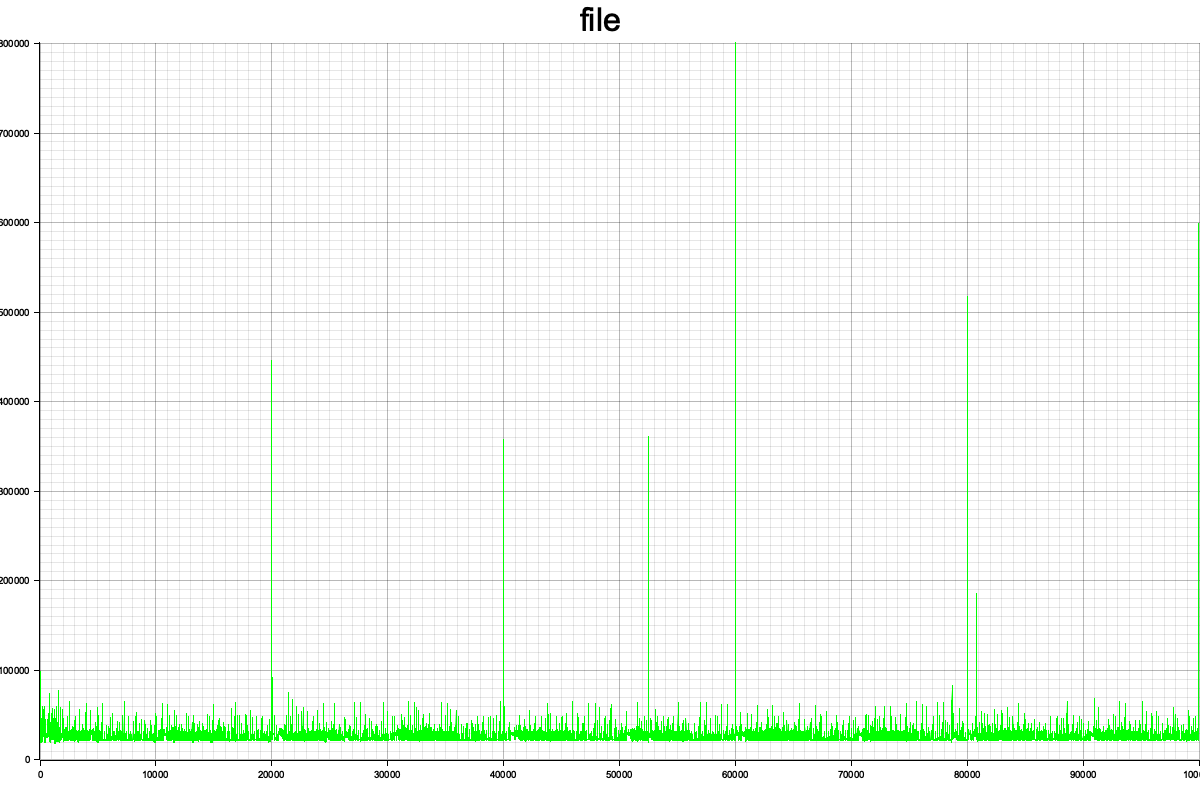
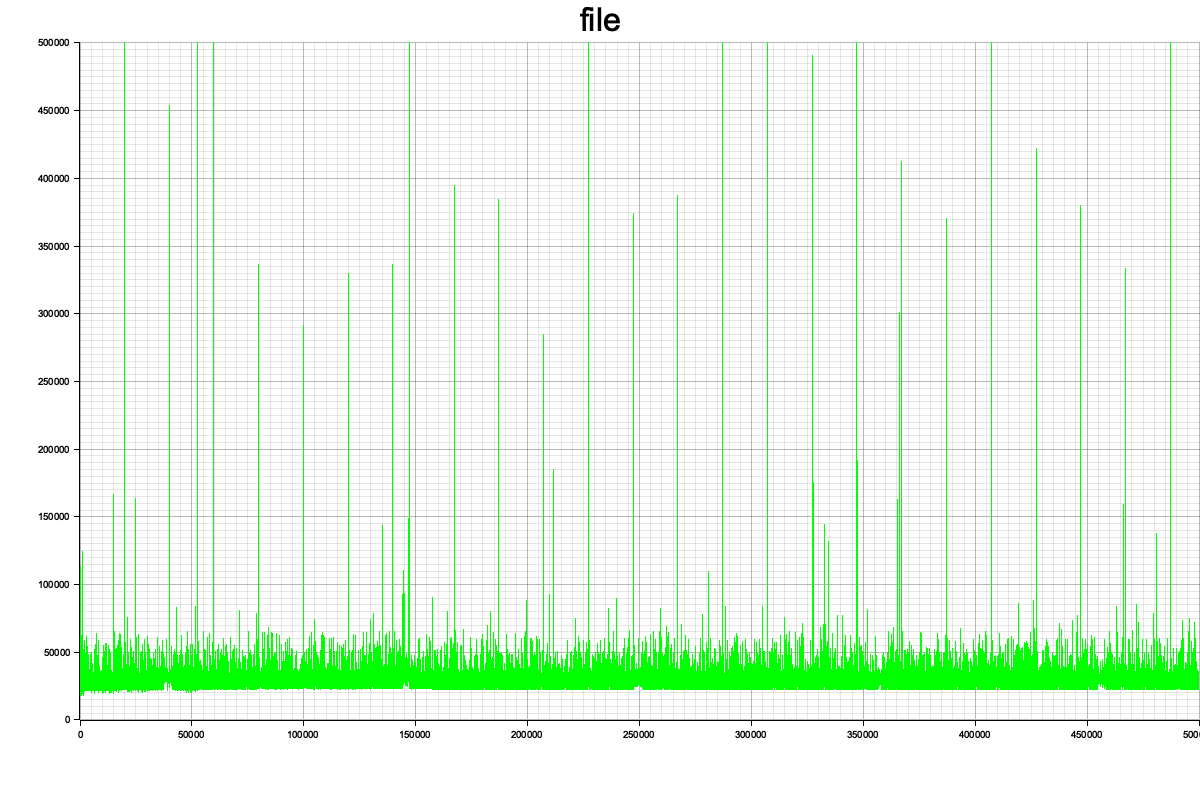
Add measurements for sqlite with sync_off

Changed region(s): [[0.0, 0.0312, 1.0, 0.9688]]

diff --git a/src/main.rs b/src/main.rs
@@ -91,6 +91,43 @@ fn measure_logs_rdbms(iterations: usize) -> PerfResults {
     return results;
 }
 
+fn measure_logs_sqlite_sync_off(iterations: usize) -> PerfResults {
+    let conn = sqlite::Connection::open("sync_off").unwrap();
+    conn.execute(
+        "
+                  CREATE TABLE IF NOT EXISTS log_table (
+                        text    TEXT NOT NULL,
+                        time    INTEGER
+                      );
+                  DELETE FROM log_table;
+                  PRAGMA synchronous=OFF;
+                  ",
+    )
+    .unwrap();
+
+    let mut results = vec![];
+    for i in 0..iterations {
+        let now = SystemTime::now()
+            .duration_since(SystemTime::UNIX_EPOCH)
+            .unwrap();
+        let before = Instant::now();
+
+        conn.execute(format!(
+            "INSERT INTO log_table (text, time)  VALUES ('user made a request', {});",
+            now.as_secs()
+        ))
+        .unwrap();
+
+        results.push(before.elapsed());
+
+        if i % 10000 == 0 {
+            println!("{i}");
+        }
+    }
+
+    results
+}
+
 fn measure_logs_rdbms_no_id(iterations: usize) -> PerfResults {
     let mut client = Client::connect("postgresql://ethancarlsson@localhost/log_db", NoTls).unwrap();
 
@@ -129,11 +166,13 @@ fn generate_plot(perf_results: &PerfResults, plot_name: &str) {
 
     root_area.fill(&WHITE).unwrap();
 
+    let max_height: u128 = 500000;
+
     let mut ctx = ChartBuilder::on(&root_area)
-        .set_label_area_size(LabelAreaPosition::Left, 40)
-        .set_label_area_size(LabelAreaPosition::Bottom, 40)
+        .set_label_area_size(LabelAreaPosition::Left, 80)
+        .set_label_area_size(LabelAreaPosition::Bottom, 80)
         .caption(format!("{plot_name}"), ("sans-serif", 40))
-        .build_cartesian_2d(0..nanos.len(), 0..nanos.clone().max().unwrap_or(0))
+        .build_cartesian_2d(0..nanos.len(), 0..max_height)
         .unwrap();
 
     ctx.configure_mesh().draw().unwrap();
@@ -149,17 +188,16 @@ fn generate_comparison_plot(
     other: &PerfResults,
     other_name: &str,
 ) {
-    let name = format!("images/comparison.png");
+    let name = format!("images/rdbms_file_{other_name}.png");
     let root_area = BitMapBackend::new(&name, (1200, 800)).into_drawing_area();
 
     root_area.fill(&WHITE).unwrap();
 
     let nanos_rdbms = results_rdbms.iter().map(|duration| duration.as_nanos());
-    let nanos_other = other
-        .iter()
-        .map(|duration| duration.as_nanos());
+    let nanos_other = other.iter().map(|duration| duration.as_nanos());
     let nanos_file = results_file.iter().map(|duration| duration.as_nanos());
 
+    let max_height: u128 = 500000;
     let mut ctx = ChartBuilder::on(&root_area)
         .set_label_area_size(LabelAreaPosition::Left, 80)
         .set_label_area_size(LabelAreaPosition::Right, 20)
@@ -168,30 +206,42 @@ fn generate_comparison_plot(
             format!("rdbms vs file vs  rdbms {other_name} for logging"),
             ("sans-serif", 40),
         )
-        .build_cartesian_2d(
-            0..nanos_rdbms.len(),
-            0..nanos_rdbms.clone().max().unwrap_or(0),
-        )
+        .build_cartesian_2d(0..nanos_rdbms.len(), 0..max_height)
         .unwrap();
 
     ctx.configure_mesh().draw().unwrap();
 
-    let series_rdbms = LineSeries::new(nanos_rdbms.enumerate(), &GREEN);
-    let series_other = LineSeries::new(nanos_other.enumerate(), &BLUE);
-    let series_file = LineSeries::new(nanos_file.enumerate(), &RED);
+    let series_rdbms = LineSeries::new(nanos_rdbms.clone().enumerate(), &GREEN);
+    let series_other = LineSeries::new(nanos_other.clone().enumerate(), &BLUE);
+    let series_file = LineSeries::new(nanos_file.clone().enumerate(), &RED);
 
     ctx.draw_series(series_rdbms)
         .unwrap()
-        .label("rdbms")
+        .label(format!(
+            "rdbms avg {}ns",
+            nanos_rdbms.sum::<u128>() / u128::try_from(results_rdbms.len()).unwrap()
+        ))
         .legend(|(x, y)| PathElement::new(vec![(x, y), (x + 20, y)], &GREEN));
     ctx.draw_series(series_other)
         .unwrap()
-        .label(other_name)
+        .label(format!(
+            "{other_name} avg {}ns",
+            nanos_other.sum::<u128>() / u128::try_from(other.len()).unwrap()
+        ))
         .legend(|(x, y)| PathElement::new(vec![(x, y), (x + 20, y)], &BLUE));
     ctx.draw_series(series_file)
         .unwrap()
-        .label("files")
+        .label(format!(
+            "files avg {}ns",
+            nanos_file.sum::<u128>() / u128::try_from(results_file.len()).unwrap()
+        ))
         .legend(|(x, y)| PathElement::new(vec![(x, y), (x + 20, y)], &RED));
+
+    ctx.configure_series_labels()
+        .border_style(&BLACK)
+        .background_style(&WHITE.mix(0.8))
+        .draw()
+        .unwrap();
 }
 
 fn main() {
@@ -204,9 +254,22 @@ fn main() {
     let results_rdbms_no_id = measure_logs_rdbms_no_id(iterations);
     let results_rdbms = measure_logs_rdbms(iterations);
     let results_file = measure_logs_files(iterations);
+    let results_sqlite_sync_off = measure_logs_sqlite_sync_off(iterations);
 
     generate_plot(&results_rdbms, "rdbms");
     generate_plot(&results_file, "file");
 
-    generate_comparison_plot(&results_rdbms, &results_file, &results_rdbms_no_id, "results_rdbms_no_id")
+    generate_comparison_plot(
+        &results_rdbms,
+        &results_file,
+        &results_rdbms_no_id,
+        "results_rdbms_no_id",
+    );
+
+    generate_comparison_plot(
+        &results_rdbms,
+        &results_file,
+        &results_sqlite_sync_off,
+        "sqlite_sync_off",
+    )
 }
